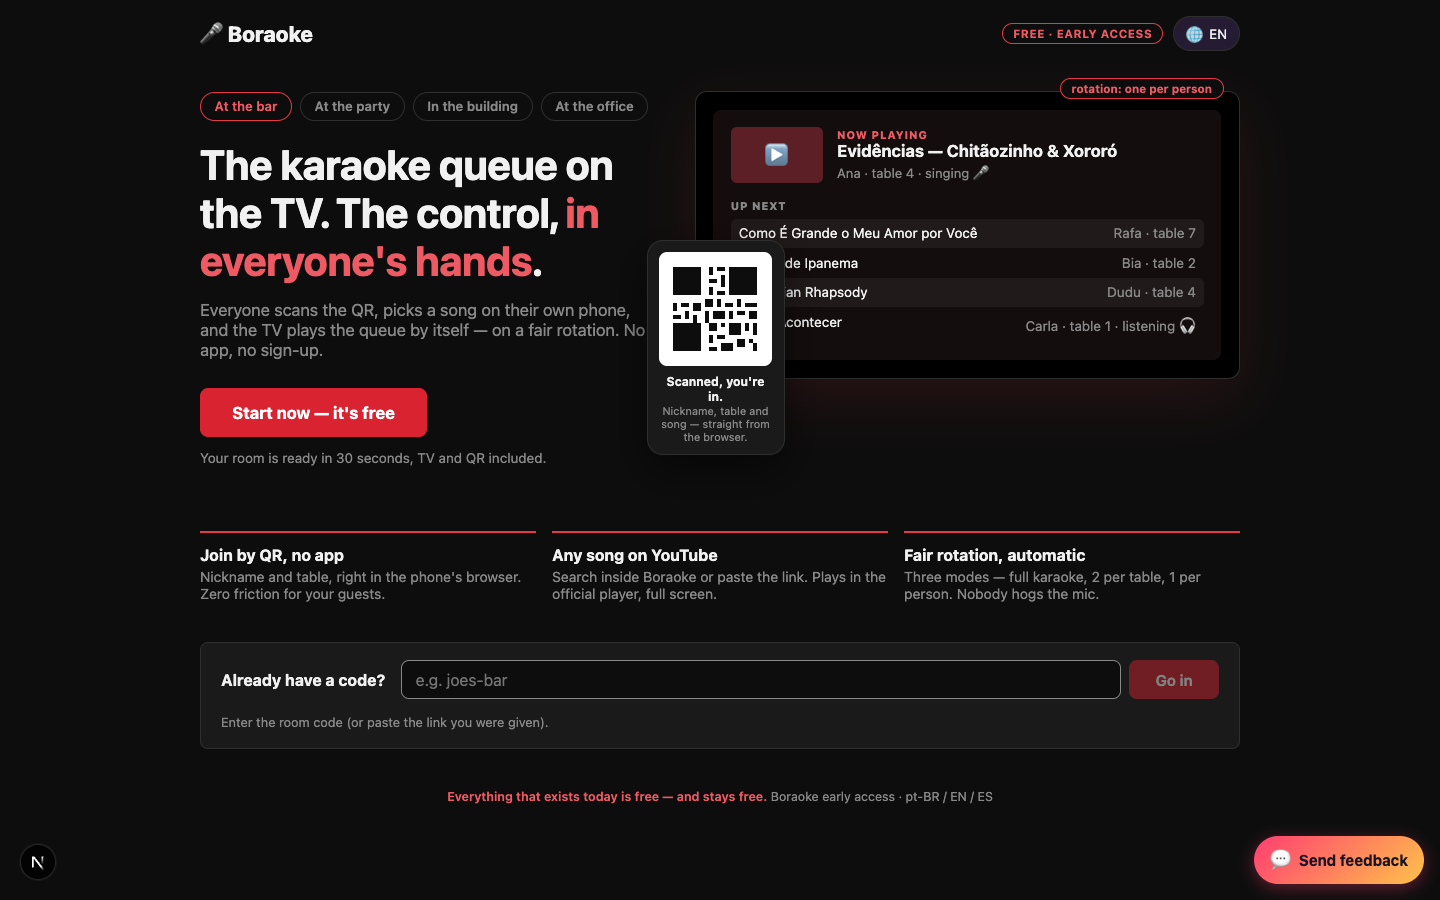
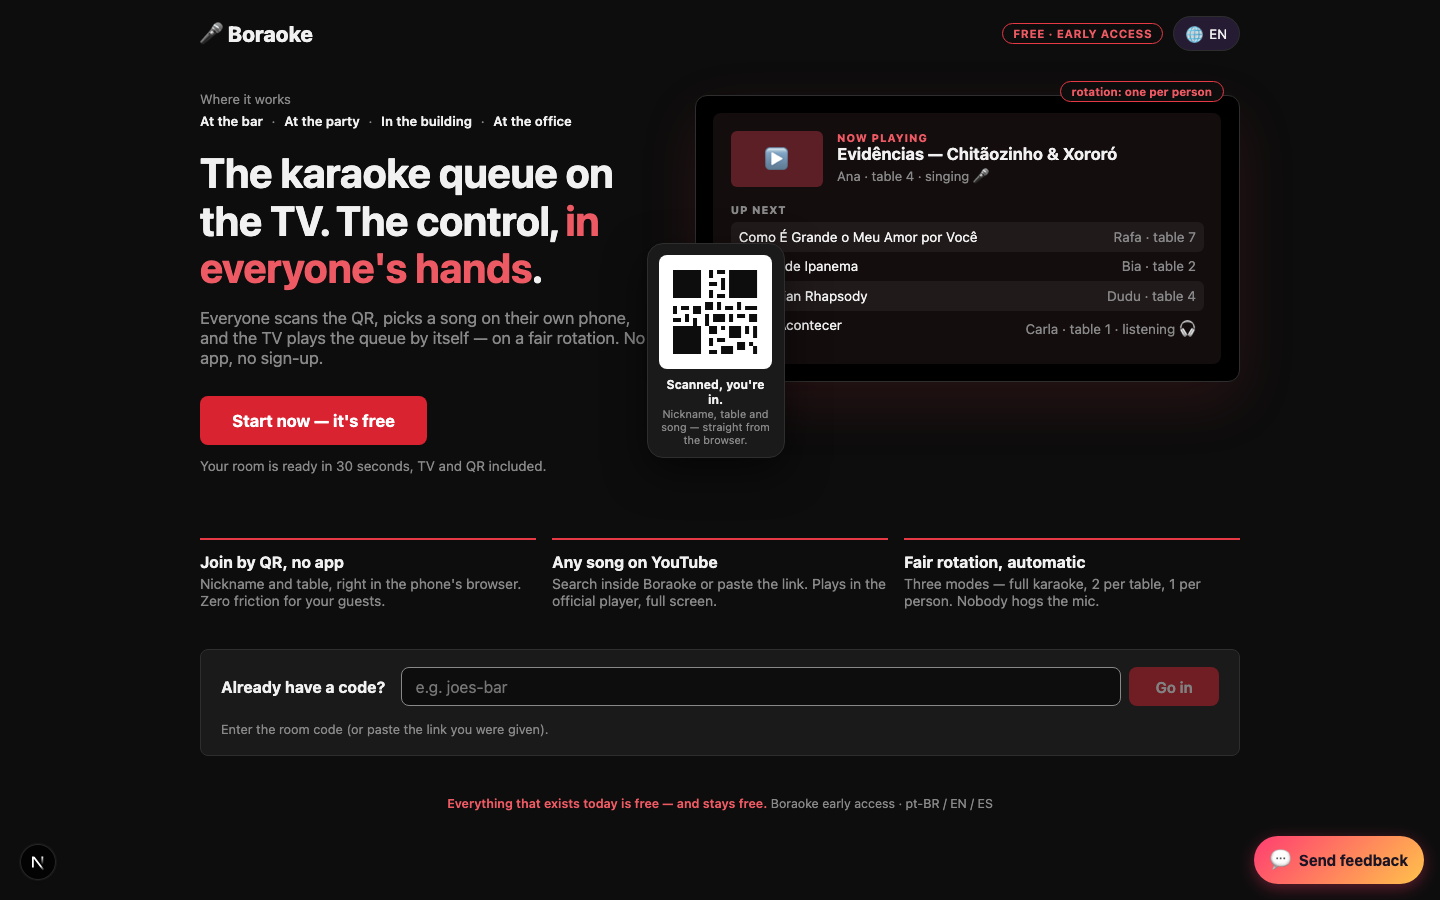
TICKET-69: restyle the venue chips as plain labels (TL decision)
They rendered as filter chips with one "selected" — the universal grammar of
a control — on inert <li>s, while venue presets (TICKET-32) are Phase 3 and
not started. The affordance promised switching that does not exist. Flagged
in review rather than shipped; the Tech Lead ruled to make them honest now.

- Drops the pill outline, radius, padding and the selected/unselected split.
  No hover or active state, no cursor change.
- All four names now equal-weight --text on --bg (17.21:1), up from the old
  muted/accent split — the not-bar-only signal reads BETTER, which matters,
  since it is the main reason this direction was chosen.
- venuesLabel was an aria-label only; it is now visible, so the row reads as
  a statement, with aria-labelledby so screen readers are not told it twice.
- Non-interactive semantics throughout: no role, no aria-selected, no
  tabindex. Separators are a ::after pseudo-element, so they stay out of the
  accessible name and out of textContent.

Locked in by a new spec that asserts the names are visible, resolve under no
interactive role, and that no leaf carrying a venue name has an interactive
tag/role/tabindex/aria-selected/pointer-cursor — so a future restyle cannot
quietly re-add the promise.

Whole e2e suite on the TICKET-70 base: 71 passed, 0 failed, 0 skipped.
Evidence re-captured on this exact code.

diff --git a/e2e/render-and-links.spec.ts b/e2e/render-and-links.spec.ts
@@ -90,6 +90,55 @@ test("landing renders create CTA + a working join-code input", async ({ page }) 
   await expect(page.getByRole("button", { name: /^entrar$/i })).toBeEnabled();
 });
 
+/**
+ * TICKET-69 / TL decision: the four venue names are a MESSAGE ("boraoke is not
+ * bar-only"), not a control. They shipped briefly as filter chips with one
+ * "selected", which promised per-venue switching that does not exist — venue
+ * presets are TICKET-32, Phase 3, not started. This pins the honest version so
+ * a future restyle cannot quietly re-add the affordance: the names must be
+ * visible, and none of them may be activatable or announced as selectable.
+ */
+test("landing venue labels are visible but NOT interactive (no promised filter)", async ({ page }) => {
+  await page.goto("/");
+
+  const names = ["No bar", "Na festa", "No condomínio", "Na empresa"];
+  for (const name of names) {
+    await expect(page.getByText(name, { exact: true })).toBeVisible();
+  }
+
+  // Nothing activatable carrying a venue name: no button/link/tab/option role,
+  // no aria-selected, no tabindex, no click handler affordance.
+  for (const name of names) {
+    for (const role of ["button", "link", "tab", "option", "radio", "checkbox"] as const) {
+      await expect(
+        page.getByRole(role, { name, exact: true }),
+        `venue name "${name}" must not be exposed as a ${role} — venue presets (TICKET-32) do not ship`,
+      ).toHaveCount(0);
+    }
+  }
+
+  const interactive = await page.evaluate((venueNames) => {
+    const hits: string[] = [];
+    for (const el of Array.from(document.querySelectorAll("*"))) {
+      const text = (el.textContent ?? "").trim();
+      if (!venueNames.includes(text)) continue;
+      if (el.children.length > 0) continue; // leaf node carrying the name only
+      const tag = el.tagName.toLowerCase();
+      if (["button", "a", "input", "select", "summary"].includes(tag)) hits.push(`${text}:<${tag}>`);
+      if (el.hasAttribute("tabindex")) hits.push(`${text}:tabindex`);
+      if (el.hasAttribute("aria-selected")) hits.push(`${text}:aria-selected`);
+      if (el.hasAttribute("role")) hits.push(`${text}:role=${el.getAttribute("role")}`);
+      if (getComputedStyle(el).cursor === "pointer") hits.push(`${text}:cursor-pointer`);
+    }
+    return hits;
+  }, names);
+
+  expect(
+    interactive,
+    "venue labels must carry no interactive tag/role/tabindex/aria-selected/pointer-cursor",
+  ).toEqual([]);
+});
+
 test("/new renders the create form", async ({ page }) => {
   await page.goto("/new");
   await expect(page.getByLabel(/nome do bar/i)).toBeVisible();

diff --git a/app/page.module.css b/app/page.module.css
@@ -66,29 +66,57 @@
   white-space: nowrap;
 }
 
-/* ── venue chips ────────────────────────────────────────────────────────── */
+/*
+ * ── venue labels ────────────────────────────────────────────────────────
+ *
+ * These were pill "chips" with a selected/unselected split (one accent-
+ * outlined, three muted) — the universal grammar of a filter control. They are
+ * inert `<li>`s and venue presets are TICKET-32 / Phase 3, NOT STARTED, so that
+ * styling promised a control that does not exist. The Tech Lead's call was to
+ * make them honest now: plain labels.
+ *
+ * So: no pill outline, no radius, no selected state, no hover, no cursor
+ * change — nothing that reads as activatable. What survives is the message
+ * itself (boraoke is not bar-only), which is the main reason this direction was
+ * chosen, carried by a visible lead-in and four equally-weighted names read as
+ * a sentence. When TICKET-32 lands they can become real filter chips, and the
+ * affordance will then be telling the truth.
+ */
 
-.chips {
+.venues {
   display: flex;
-  gap: 0.5rem;
+  align-items: baseline;
   flex-wrap: wrap;
+  gap: 0.35rem 0.6rem;
   margin-bottom: 1.25rem;
-  list-style: none;
-  padding: 0;
+  font-size: 0.82rem;
 }
 
-.chips li {
-  font-size: 0.82rem;
-  font-weight: 600;
-  border: 1px solid var(--border);
-  border-radius: 999px;
-  padding: 0.35rem 0.85rem;
+.venuesLead {
   color: var(--text-muted);
 }
 
-.chips li.chipOn {
-  border-color: var(--accent);
-  color: var(--accent-text);
+.venueList {
+  display: flex;
+  flex-wrap: wrap;
+  gap: 0.35rem 0.55rem;
+  list-style: none;
+  padding: 0;
+  margin: 0;
+}
+
+.venueList li {
+  font-weight: 600;
+  color: var(--text);
+}
+
+/* Decorative separator so the four names read as one line of prose. A
+   pseudo-element keeps it out of the accessible name and out of textContent. */
+.venueList li:not(:last-child)::after {
+  content: "·";
+  color: var(--text-muted);
+  font-weight: 400;
+  margin-left: 0.55rem;
 }
 
 /* ── hero ───────────────────────────────────────────────────────────────── */

diff --git a/app/page.tsx b/app/page.tsx
@@ -84,12 +84,26 @@ export default function Landing() {
       <main>
         <section className={styles.hero} aria-labelledby="landing-hero-title">
           <div>
-            <ul className={styles.chips} aria-label={t("venuesLabel")}>
-              <li className={styles.chipOn}>{t("chipBar")}</li>
-              <li>{t("chipParty")}</li>
-              <li>{t("chipCondo")}</li>
-              <li>{t("chipCompany")}</li>
-            </ul>
+            {/*
+              Venue labels — deliberately NON-interactive. These were styled as
+              filter chips with one "selected", which promised per-venue
+              switching that does not exist (venue presets are TICKET-32, Phase
+              3). Now they are plain labels: no roles, no aria-selected, no
+              tabindex, nothing to activate — the lead-in is visible so the row
+              reads as a statement, and `aria-labelledby` gives the list the
+              same framing without duplicating the text for screen readers.
+            */}
+            <div className={styles.venues}>
+              <span className={styles.venuesLead} id="landing-venues-lead">
+                {t("venuesLabel")}
+              </span>
+              <ul className={styles.venueList} aria-labelledby="landing-venues-lead">
+                <li>{t("chipBar")}</li>
+                <li>{t("chipParty")}</li>
+                <li>{t("chipCondo")}</li>
+                <li>{t("chipCompany")}</li>
+              </ul>
+            </div>
 
             <h1 id="landing-hero-title">
               {t.rich("heroTitle", { em: (chunks) => <em>{chunks}</em> })}

diff --git a/e2e/contrast.spec.ts b/e2e/contrast.spec.ts
@@ -347,8 +347,12 @@ test.describe("landing page contrast", () => {
     await page.goto("/");
 
     await assertAA(page.getByText("Grátis · acesso antecipado"), "landing: early-access pill");
-    await assertAA(page.getByText("No bar", { exact: true }), "landing: active venue chip (accent on --bg)");
-    await assertAA(page.getByText("Na festa", { exact: true }), "landing: inactive venue chip");
+    // Venue LABELS, not chips: the selected/unselected filter styling was
+    // removed (it promised TICKET-32 venue presets, which do not ship), so all
+    // four are now equally weighted --text on --bg.
+    await assertAA(page.getByText("No bar", { exact: true }), "landing: venue label (first)");
+    await assertAA(page.getByText("Na festa", { exact: true }), "landing: venue label (second)");
+    await assertAA(page.getByText(/^Onde dá pra usar$/), "landing: venue lead-in");
     await assertAA(page.getByRole("heading", { level: 1 }).locator("em"), "landing: hero h1 accent span");
     await assertAA(page.getByText(/Cada pessoa escaneia o QR/), "landing: hero sub-copy");
     await assertAA(page.getByText(/Sua sala fica pronta em 30 segundos/), "landing: CTA microcopy");

diff --git a/work/reports/dev/TICKET-69-dev-report.md b/work/reports/dev/TICKET-69-dev-report.md
@@ -148,3 +148,44 @@ Re-verified after this change: `npm run build` → `✓ Compiled successfully in
 - The mobile `FeedbackWidget` bubble overlaps the hero's QR phone card at 390px. `components/FeedbackWidget.tsx` belongs to sibling **TICKET-71** (mobile feedback overlap) — untouched by design.
 - White-on-accent CTA contrast (4.17:1) is **TICKET-66**'s token fix; this page uses the global `.btn-primary` so it inherits that fix on merge, in either merge order.
 - A 401 from `SavedRooms`' host-session probe once a saved room exists is pre-existing behaviour of that component (expired-cookie routing), not introduced here.
+
+## Addendum 3 — venue chips restyled as plain labels (Tech Lead decision)
+
+The opus review raised MEDIUM-1: the four venue names rendered as filter chips with one "selected" (accent outline + accent text) on inert `<li>`s, while venue presets (TICKET-32) are Phase 3 and NOT STARTED. I surfaced it rather than shipping it; **the Tech Lead ruled: make them plain labels now.**
+
+**What changed** (`app/page.tsx`, `app/page.module.css`):
+
+- Removed the entire chip affordance — pill border, 999px radius, padding, and the selected/unselected split. No hover state, no active state, no `cursor` change ever existed and none was added.
+- All four names now carry equal weight: `--text` on `--bg` (**17.21:1**, measured `rgb(241, 241, 241)`), up from the old muted/accent split. The message got *more* legible, not less, which matters — the not-bar-only signal is the main reason this direction was chosen.
+- The `venuesLabel` string ("Onde dá pra usar" / "Where it works" / "Dónde funciona") was an `aria-label` only; it is now **visible**, so the row reads as a statement rather than a control, and the `<ul>` points at it with `aria-labelledby` so screen readers get the same framing without hearing the text twice.
+- Non-interactive semantics: no `role`, no `aria-selected`, no `tabindex`, no interactive element. Separators are a CSS `::after` pseudo-element, so they stay out of both the accessible name and `textContent`.
+
+**Locked in by a new test** so a future restyle cannot quietly re-add the promise — `e2e/render-and-links.spec.ts`, "landing venue labels are visible but NOT interactive (no promised filter)". It asserts all four names are visible, that none resolves under the `button`/`link`/`tab`/`option`/`radio`/`checkbox` roles, and then walks the DOM asserting no leaf carrying a venue name has an interactive tag, `role`, `tabindex`, `aria-selected`, or a `pointer` cursor. The contrast suite's two chip assertions were relabelled to match reality and a third added for the lead-in.
+
+### Verification (new base `be59814`, TICKET-70 merged in cleanly)
+
+```
+$ npm test
+Test Suites: 43 passed, 43 total
+Tests:       683 passed, 683 total
+
+$ npm run build
+ ✓ Compiled successfully in 3.8s
+
+$ rm -rf .next && PORT=3181 npx playwright test
+  ✓  38 › render-and-links.spec.ts:101 › landing venue labels are visible but NOT interactive (no promised filter) (2.6s)
+  71 passed (3.0m)
+```
+Whole suite: **71 passed, 0 failed, 0 skipped.**
+
+Evidence re-captured on this exact code (`landing-desktop-1440x900.png`, `landing-mobile-390x844.png`, plus the CTA-fold, focus and locale shots). Measured live afterwards:
+
+| Check | Observed |
+|---|---|
+| Venue label colour | `rgb(241, 241, 241)` — `--text`, no accent, no selected state |
+| CTA above the fold | `bottom` 430.67px @1440x900 · **426.89px** @390x844 (improved from 455.67px — the labels now take one line) |
+| Horizontal overflow @1440 / @390 / @320 | none (scrollWidth == innerWidth at all three) |
+| CTA background | `rgb(217, 35, 48)` — `--accent-strong`, unchanged |
+| iframes / off-origin requests / console errors | 0 / none / none |
+
+**Untouched, per instruction:** the QR card's occlusion of some up-next titles (needs a design call) and the mobile FeedbackWidget overlap (TICKET-71).
